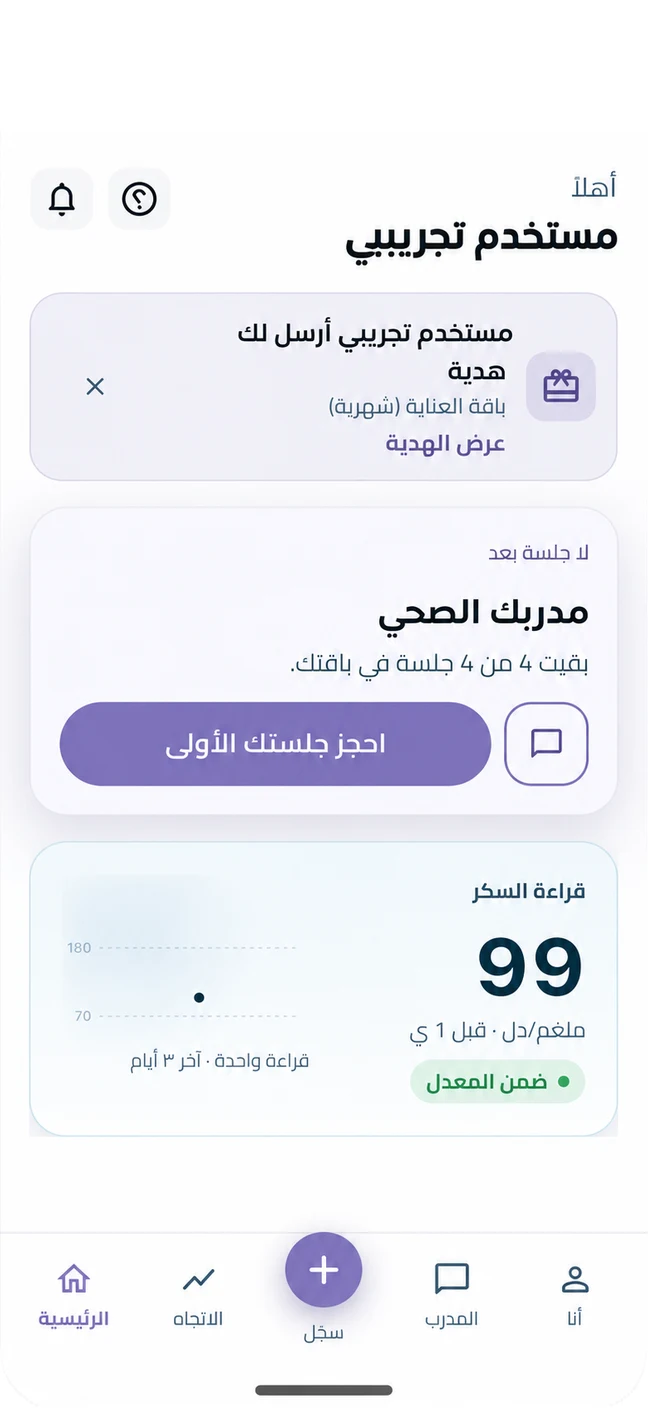
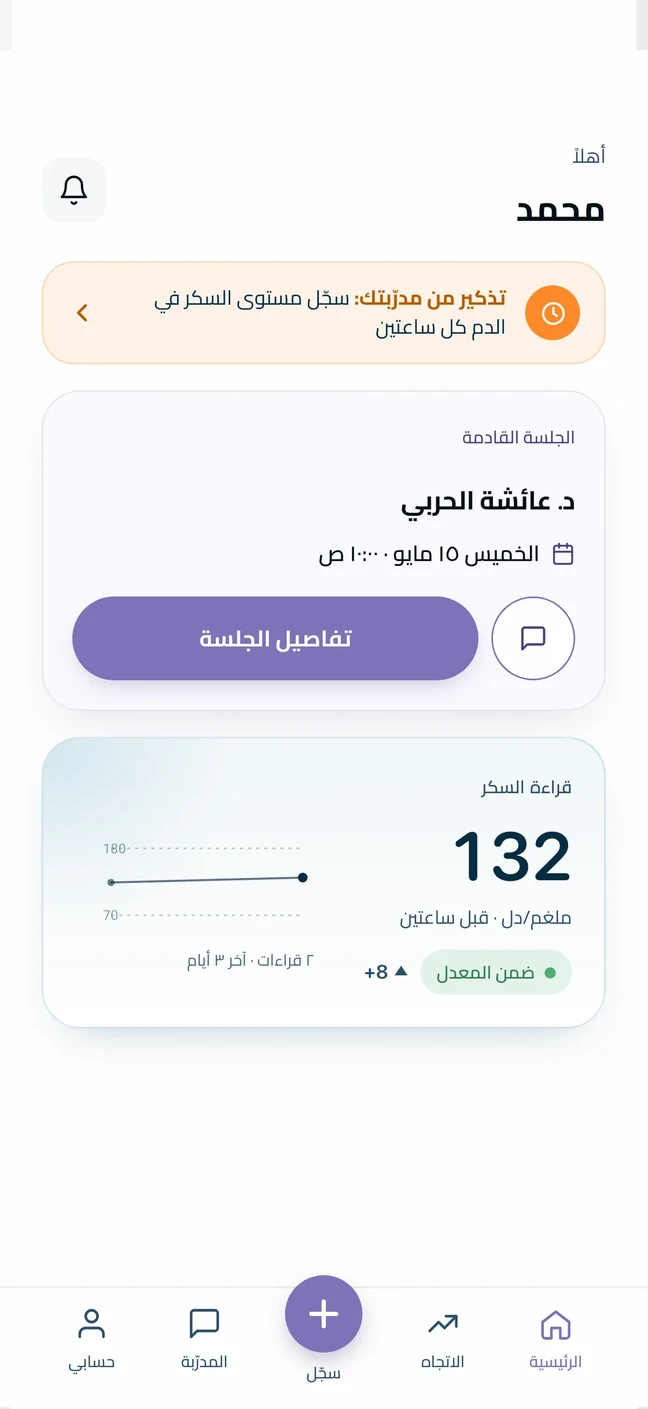
Update Ithnain screenshots from ithnain.com

diff --git a/lib/site.ts b/lib/site.ts
@@ -92,7 +92,7 @@ export const projects = [
     ],
     tags: ["Flutter", "Clean Architecture", "Cubit", "get_it", "go_router", "Dio", "Firebase", "ZEGOCLOUD", "PayTabs", "Oracle OCI"],
     icon: "/images/ithnain-icon.png",
-    images: ["/images/ithnain-1.webp", "/images/ithnain-2.webp", "/images/ithnain-3.webp"],
+    images: ["/images/ithnain-1.webp", "/images/ithnain-2.webp", "/images/ithnain-3.webp", "/images/ithnain-4.webp", "/images/ithnain-5.webp", "/images/ithnain-6.webp", "/images/ithnain-7.webp", "/images/ithnain-8.webp", "/images/ithnain-9.webp"],
     appStore: null,
     playStore: "https://play.google.com/store/apps/details?id=com.sitksa.sokkari",
     iosStatus: "iOS release in progress",
